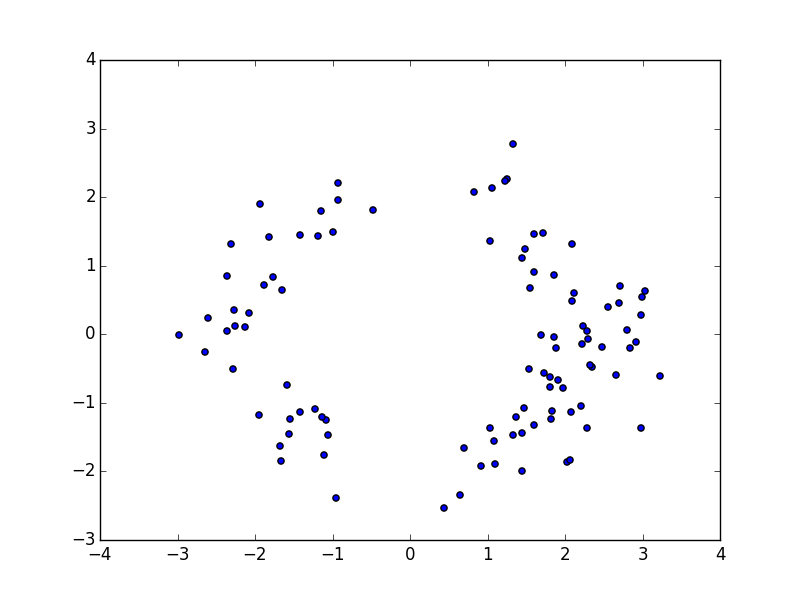
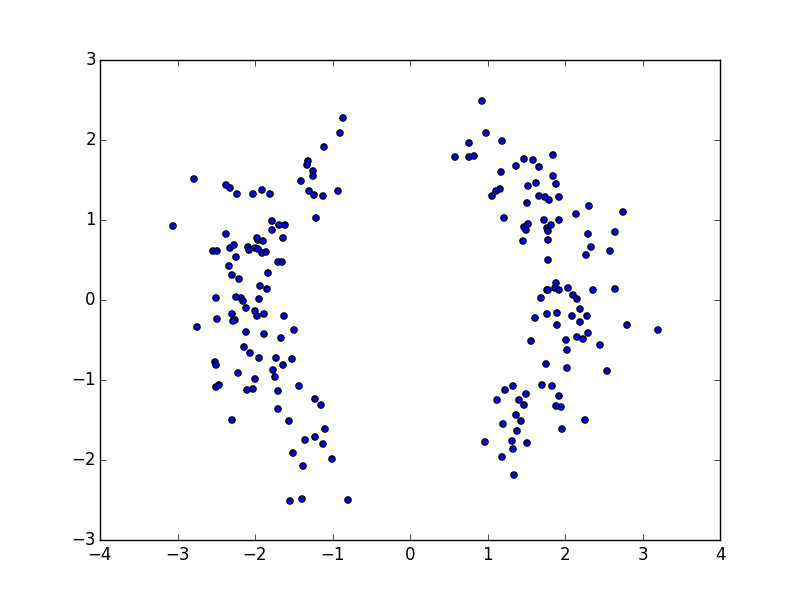
Two moons sanity check passes

diff --git a/experiments/2-test-langevin/3/main.py b/experiments/2-test-langevin/3/main.py
@@ -22,7 +22,7 @@ def logprob_two_moons(z):
 def logprob_wiggle(z):
     z1 = z[:, 0]
     z2 = z[:, 1]
-    return -0.5 * (z2 - np.sin(2.0 * np.pi * z1 / 4.0) / 0.4 )**2 + 0.2 * (z1**2 + z2**2)
+    return -0.5 * (z2 - np.sin(2.0 * np.pi * z1 / 4.0) / 0.4 )**2 - 0.2 * (z1**2 + z2**2)
 
 cov = np.array([[1.0, 0.9], [0.9, 1.0]])
 pinv = np.linalg.pinv(cov)
@@ -66,9 +66,9 @@ if __name__ == '__main__':
 
     t0 = time.time()
 
-    num_samples = 100
+    num_samples = 200
     num_langevin_steps = 5
-    num_sampler_optimization_steps = 40
+    num_sampler_optimization_steps = 200
     sampler_learn_rate = 0.2
 
     D = 2
@@ -79,7 +79,7 @@ if __name__ == '__main__':
 
     rs = np.random.npr.RandomState(0)
 
-    sample_and_run_langevin, parser = build_langevin_sampler(logprob_two_moons, D, num_langevin_steps, approx=True)
+    sample_and_run_langevin, parser = build_langevin_sampler(logprob_two_moons, D, num_langevin_steps, approx=False)
 
     sampler_params = np.zeros(len(parser))
     parser.put(sampler_params, 'mean', init_mean)
